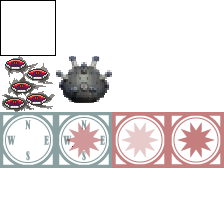
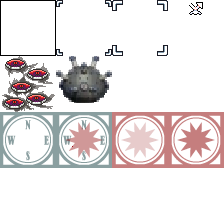
Added protected marker

diff --git a/src/camera/battalionCamera.js b/src/camera/battalionCamera.js
@@ -44,9 +44,6 @@ export const BattalionCamera = function() {
 
     this.teamID = TeamManager.INVALID_ID;
     this.isCurrentActor = false;
-
-    this.markerSprite = SpriteManager.EMPTY_SPRITE;
-    this.weakMarkerSprite = SpriteManager.EMPTY_SPRITE;
 }
 
 BattalionCamera.FLAG = {
@@ -60,11 +57,7 @@ BattalionCamera.STEALTH_THRESHOLD = 0.5;
 BattalionCamera.prototype = Object.create(Camera2D.prototype);
 BattalionCamera.prototype.constructor = BattalionCamera;
 
-BattalionCamera.prototype.loadSprites = function(gameContext) {
-    const { spriteManager, textureLoader } = gameContext;
-
-    this.markerSprite = spriteManager.createSprite("marker");
-}
+BattalionCamera.prototype.loadSprites = function(gameContext) {}
 
 BattalionCamera.prototype.setInspect = function(inspectX, inspectY) {
     this.inspectX = inspectX;
@@ -102,14 +95,14 @@ BattalionCamera.prototype.drawEntityHealth = function(display, drawX, drawY, vit
 }
 
 BattalionCamera.prototype.drawEntity = function(gameContext, display, entity, sprite, realTime, deltaTime) {
-    const { teamManager, shadeCache } = gameContext;
+    const { teamManager, shadeCache, tileManager } = gameContext;
     const { tileX, tileY, offsetX, offsetY, state, teamID, flags, opacity, config, direction } = entity;
     const screenX = this.getScreenX(tileX) + offsetX;
     const screenY = this.getScreenY(tileY) + offsetY;
     let alpha = opacity;
     let hasActed = false;
     let isInactive = false;
-    let marker = null;
+    let marker = TILE_ID.NONE;
 
     if(flags & BattalionEntity.FLAG.HAS_ACTED) {
         hasActed = true;
@@ -128,10 +121,10 @@ BattalionCamera.prototype.drawEntity = function(gameContext, display, entity, sp
         if(this.isCurrentActor && state === BattalionEntity.STATE.IDLE) {
             if(teamID === this.teamID) {
                 if(!hasActed) {
-                    marker = this.markerSprite;
+                    marker = TILE_ID.MARKER;
                 }
             } else {
-                marker = this.weakMarkerSprite;
+                marker = TILE_ID.MARKER_WEAK;
             }
         }
     } else {
@@ -176,10 +169,14 @@ BattalionCamera.prototype.drawEntity = function(gameContext, display, entity, sp
             this.drawEntityHealth(display, screenX, screenY, vitality);
         }
 
-        if(marker) {
+        if(marker !== TILE_ID.NONE) {
             display.setAlpha(1);
-            marker.onUpdate(realTime, deltaTime);
-            marker.onDraw(display, screenX, screenY);
+
+            this.drawTile(tileManager, marker, display.context, screenX, screenY);
+        }
+
+        if(flags & BattalionEntity.FLAG.IS_PROTECTED) {
+            this.drawTile(tileManager, TILE_ID.MARKER_PROTECTED, display.context, screenX, screenY);
         }
     } else {
         if(DEBUG.SPRITES) {

diff --git a/src/entity/battalionEntity.js b/src/entity/battalionEntity.js
@@ -45,7 +45,8 @@ BattalionEntity.FLAG = {
     CAN_ACT: 1 << 5,
     BEWEGUNGSKRIEG_TRIGGERED: 1 << 7,
     ELUSIVE_TRIGGERED: 1 << 8,
-    IS_TURN: 1 << 9
+    IS_TURN: 1 << 9,
+    IS_PROTECTED: 1 << 10
 };
 
 BattalionEntity.STATE = {
@@ -609,7 +610,7 @@ BattalionEntity.prototype.isAttackPositionValid = function(gameContext, target) 
     switch(this.config.rangeType) {
         case RANGE_TYPE.RANGE: {
             //Protected targets cannot be shot.
-            if(target.isProtectedFromRange(gameContext)) {
+            if(target.hasFlag(BattalionEntity.FLAG.IS_PROTECTED)) {
                 return false;
             }
 
@@ -617,7 +618,7 @@ BattalionEntity.prototype.isAttackPositionValid = function(gameContext, target) 
         }
         case RANGE_TYPE.HYBRID: {
             //Special case for entities with MIN_RANGE of 1 and MAX_RANGE of n.
-            if(!this.isNextToEntity(target) && target.isProtectedFromRange(gameContext)) {
+            if(!this.isNextToEntity(target) && target.hasFlag(BattalionEntity.FLAG.IS_PROTECTED)) {
                 return false;
             }
 
@@ -721,9 +722,11 @@ BattalionEntity.prototype.isHealValid = function(gameContext, target) {
     return true;
 }
 
-BattalionEntity.prototype.isProtectedFromRange = function(gameContext) {
+BattalionEntity.prototype.updateRangeGuard = function(gameContext) {
     //Air units are never protected by tiles/canyons!
     if(this.config.category === ENTITY_CATEGORY.AIR) {
+        this.flags &= ~BattalionEntity.FLAG.IS_PROTECTED;
+
         return false;
     }
 
@@ -744,11 +747,15 @@ BattalionEntity.prototype.isProtectedFromRange = function(gameContext) {
                 const { rangeGuard } = typeRegistry.getTerrainType(terrainID);
 
                 if(rangeGuard) {
+                    this.flags |= BattalionEntity.FLAG.IS_PROTECTED;
+
                     return true;
                 }
             }
         }
     }
+
+    this.flags &= ~BattalionEntity.FLAG.IS_PROTECTED;
 
     return false;
 }
@@ -1489,6 +1496,8 @@ BattalionEntity.prototype.placeOnMap = function(gameContext) {
             worldMap.addJammer(nextX, nextY, this.teamID, jammerFlags);
         });
     }
+
+    this.updateRangeGuard(gameContext);
 }
 
 BattalionEntity.prototype.removeFromMap = function(gameContext) {

diff --git a/src/enums.js b/src/enums.js
@@ -703,7 +703,11 @@ export const TILE_ID = {
     MINE_LAND: 184,
     MINE_SEA: 185,
 
-    _COUNT: 186
+    MARKER_WEAK: 186,
+    MARKER: 187,
+    MARKER_PROTECTED: 188,
+
+    _COUNT: 189
 };
 
 export const DIRECTION = {
